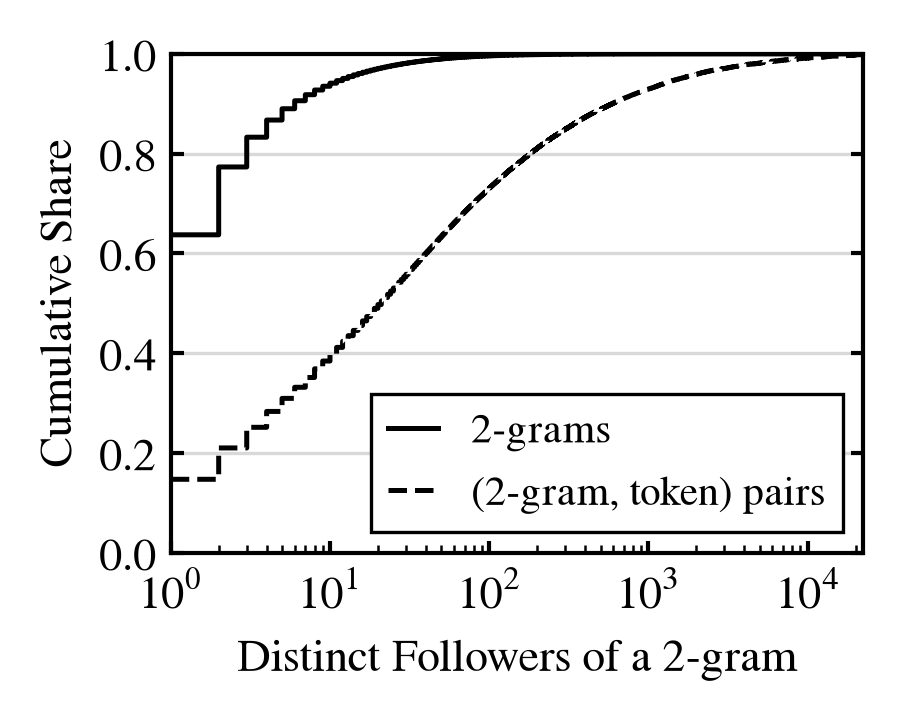
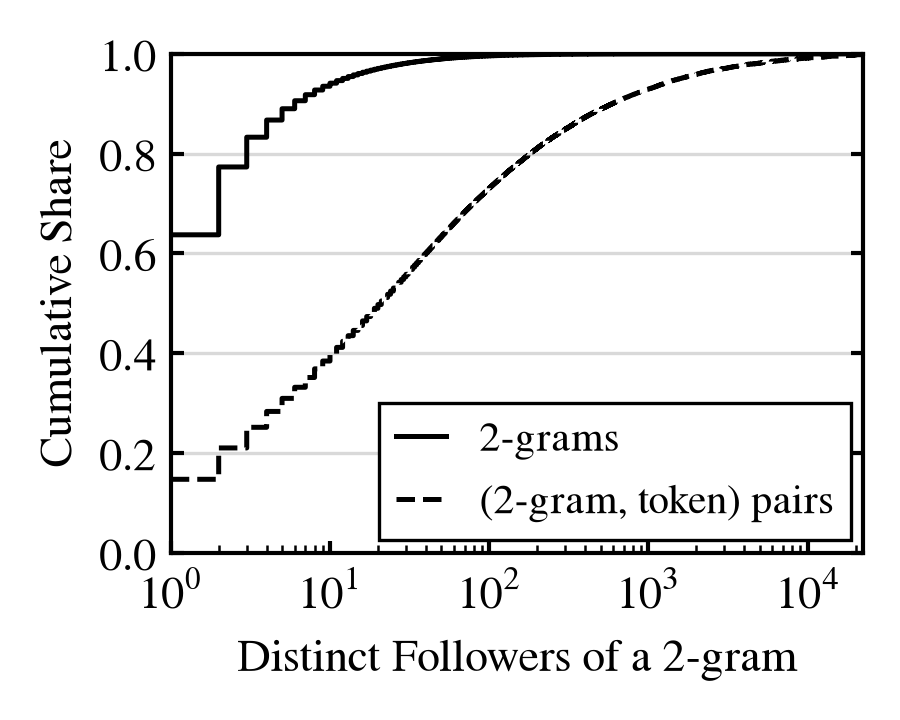
chore: pin innervector and constmap to their shorter search comment

Changed region(s): [[0.4044, 0.5194, 0.9644, 0.7639]]

diff --git a/src/ngram_cache_bench/plot.py b/src/ngram_cache_bench/plot.py
@@ -242,8 +242,8 @@ def followers_cdf(path: Path, followers_rows: list[FollowersRow]) -> None:
     axes.set_xlabel("Distinct Followers of a 2-gram", color=TEXT_COLOR)
     axes.set_ylabel("Cumulative Share", color=TEXT_COLOR)
     axes.grid(axis="y", which="major", color=GRID_COLOR, linestyle="-", linewidth=0.8, zorder=0)
-    # Both lines end at 1 on the right, so the lower right corner stays clear.
-    axes.legend(loc="lower right")
+    # Both lines stay above 0.3 right of 10 followers, so the legend hugs the lower right corner below them.
+    axes.legend(loc="lower right", borderaxespad=0.3)
     figure.tight_layout(pad=0.8)
     figure.savefig(path, facecolor=SURFACE_COLOR, metadata={"Date": None})
     png_path = path.with_suffix(".png")

diff --git a/docs/runs.md b/docs/runs.md
@@ -87,4 +87,7 @@ its spans as the same (token, count) pairs and calls the same search.
 Without a static cache, constmap and innervector run the same code, and
 their runs of 0.80 to 0.84 µs and 0.84 to 0.92 µs per drafted token
 overlap. constmap drafts and accepts exactly the same tokens as
-innervector on every corpus.
+innervector on every corpus. We ran innervector at `e597b1b` and constmap
+at `bdd4ea7`, then pinned them to `69b635a` and `899dc75`, which differ
+from the measured commits only by a shorter comment above the search in
+`common/ngram-cache.h`.
